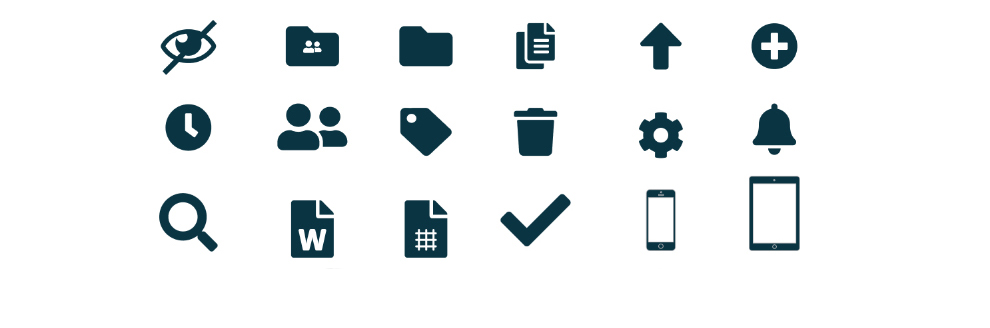
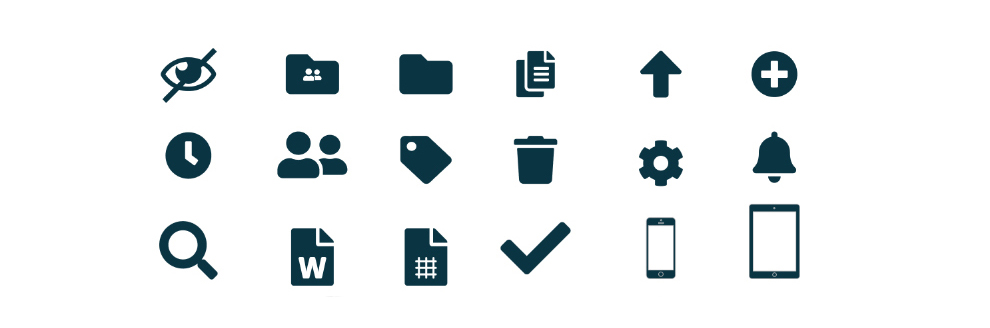
changes some images for the cloudspring branding

diff --git a/projects/cloudspring.html b/projects/cloudspring.html
@@ -552,21 +552,25 @@
           </div>
           <div class="moodboard">
             <h4>Moodboard</h4>
-            <img src="../media/images/moodboard.jpg" alt="Moodboard for brand inspiration">
+            <img src="../media/images/cloudspring-moodboard.jpg" alt="Moodboard for brand inspiration">
+            <p class="fig">Various elements found online that served as inspirartion for the brand</p>
           </div>
           <div class="style-guide">
             <h4>Logo</h4>
-            <img src="../media/images/style-guide.jpg" alt="Style Guide for the Brand">
+            <img src="../media/images/cloudspring-logo-2.jpg" alt="Style Guide for the Brand">
+            <p class="fig">Two variations of the logo with different backgrounds</p>
           </div>
           <div class="typography">
             <h4>Icons</h4>
-            <p>The main typography has a rounded feeling, going well with the rounded feel of the icon. The chosen colors are blue (meaning <strong>inspiration, creativity, and intelligence)</strong> and gray (balance, neutral). The supported icons also have a rounded feeling, playing very well with the brand. I think the approach can work very well since <strong>the user will get used to seeing the logo and will remember its meaning</strong> and associated it with the cloud storage solution.</p>
+            <p>The main typography has a rounded feeling, going well with the rounded feel of the icon. The chosen colors are blue (meaning <strong>"inspiration", "creativity", and "intelligence")</strong> and gray (balance, neutral). The supported icons also have a rounded feeling, playing very well with the brand. I think the approach can work very well since <strong>the user will get used to seeing the logo and will remember its meaning</strong> and associated it with the cloud storage solution.</p>
             <img src="../media/images/cloudspring-icons.jpg" alt="Icons for the brand">
+            <p class="fig">Various icons used throughout the interface</p>
           </div>
           <div class="typography">
             <h4>Typography and Color</h4>
             <p>The main typography has a rounded feeling, going well with the rounded feel of the icon. The chosen colors are blue (meaning <strong>inspiration, creativity, and intelligence)</strong> and gray (balance, neutral). The supported icons also have a rounded feeling, playing very well with the brand. I think the approach can work very well since <strong>the user will get used to seeing the logo and will remember its meaning</strong> and associated it with the cloud storage solution.</p>
             <img src="../media/images/style-guide-typography.jpg" alt="Style Guide for the Typography">
+            <p class="fig">Typography and color for the brand</p>
           </div>
         </section>
         <div class="button-wrapper">
